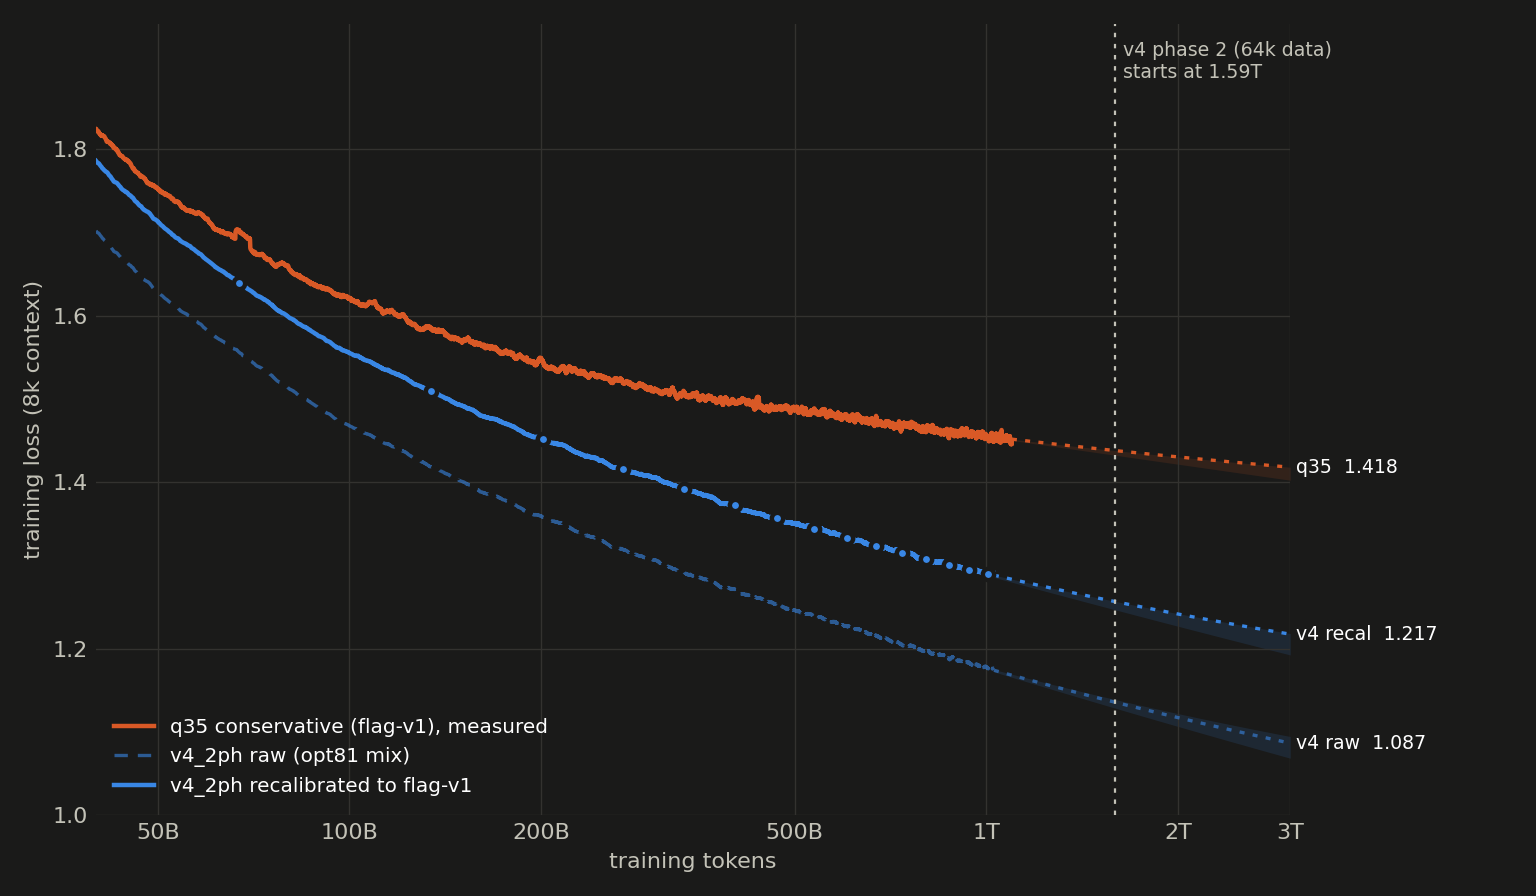
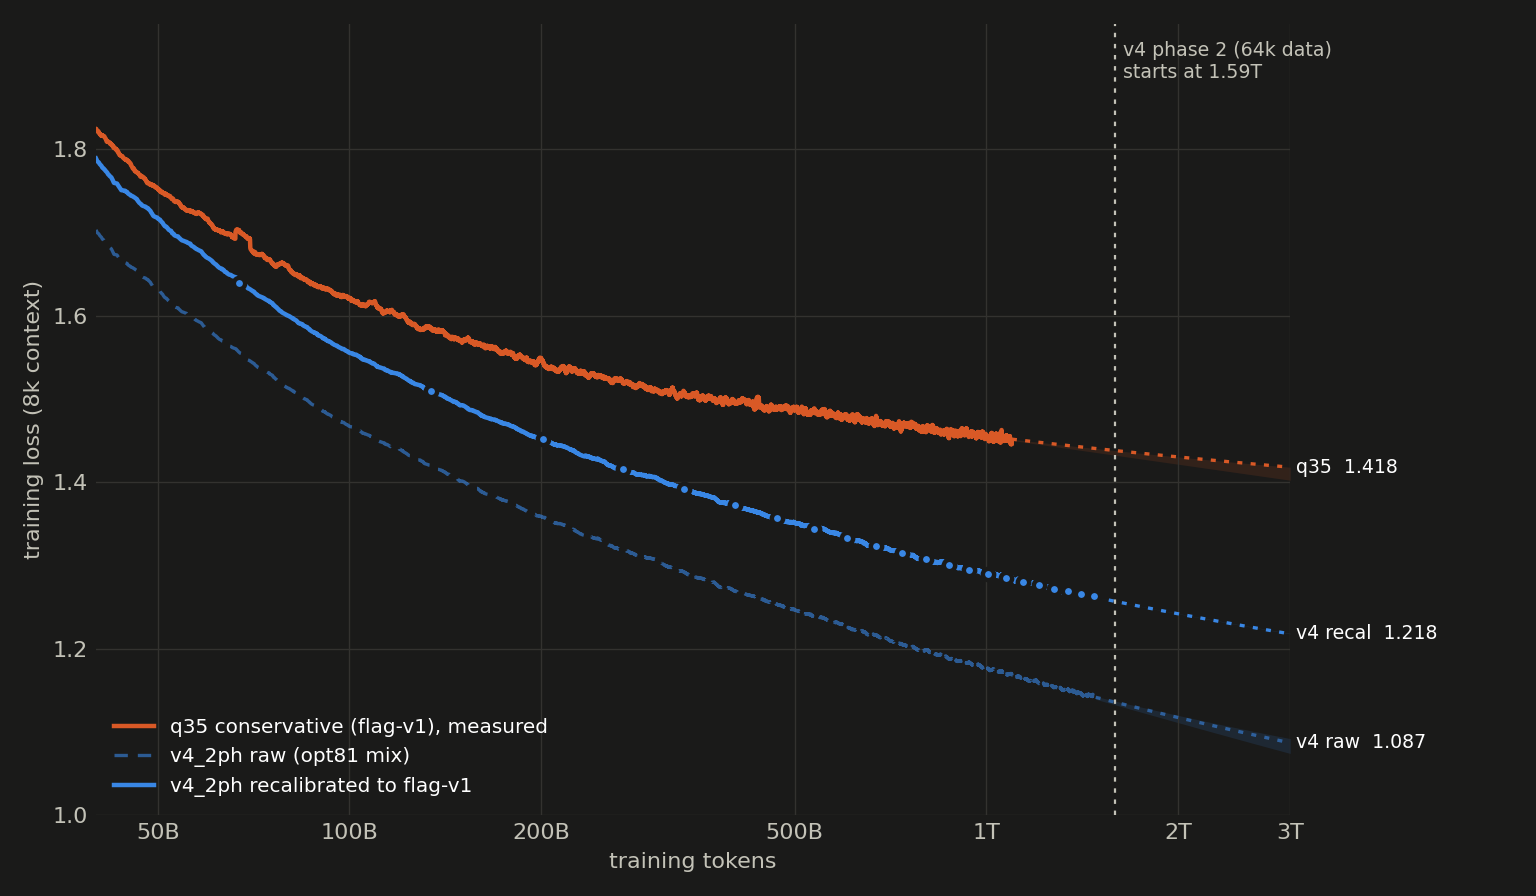
docs/loss_extrapolation: refit at 1.48T (step 22k, OOS fit 250-900B -> 900B-1.48T within 1-2 mnat); 11-07 forecasts held (raw 1.1425 / obs 1.1432, recal 1.262 / 1.263); recal 1.263 vs q35 1.441 (extrapolated) at 1.48T

diff --git a/docs/loss_extrapolation/README.md b/docs/loss_extrapolation/README.md
@@ -1,9 +1,9 @@
-# Loss extrapolation: ambitious v4_2ph vs conservative q35 (2026-11-07)
+# Loss extrapolation: ambitious v4_2ph vs conservative q35 (2026-11-09)
 
 ![v4_2ph raw / recalibrated vs q35, measured and extrapolated](loss_extrapolation_light.png)
 
-Data: W&B `openeurollm-project/flag_hybrid`, runs `ambitious_v4_2ph_main` (to step 15,266 = 1.02T tokens) and
-`conservative_q35_main_gqa` (ended at step 63,897 = 1.07T). Reproduce:
+Data: W&B `openeurollm-project/flag_hybrid`, runs `ambitious_v4_2ph_main` and
+`conservative_q35_main_gqa` (ended at step 63,897 = 1.07T); v4 data to step 22,000 = 1.48T. Reproduce:
 
     python scripts/korbi/production/recalibrated_loss.py --out <dir>
     python scripts/korbi/campaign/loss_extrapolation.py --recal-dir <dir> --out docs/loss_extrapolation
@@ -15,7 +15,8 @@ category shares, plus q35's own residual (training loss minus the same re-weight
 improves fastest on math and reasoning.
 
 **Fits** (`loss_extrapolation.py`): tail only (>= 250B tokens; full-range fits flatten too early, see the q35
-history), 200-step bins for v4, 800-step bins for q35. Out-of-sample check: fit 250-600B, predict 600B to the end.
+history), 200-step bins for v4, 800-step bins for q35. Out-of-sample check: fit 250-900B, predict 900B to the end
+(`--oos-cut 900`).
 Band = forms within 9 mnat out of sample; line = best of those by BIC.
 
 ## At equal tokens
@@ -26,21 +27,25 @@ Band = forms within 9 mnat out of sample; line = best of those by BIC.
 | 268B | 1.319 | +0.097 | 1.416 | 1.521 | -0.105 |
 | 537B | 1.237 | +0.107 | 1.344 | 1.484 | -0.140 |
 | 1.0T | 1.176 | +0.114 | 1.290 | 1.454 | -0.164 |
+| 1.07T | 1.169 | +0.116 | 1.284 | 1.452 | -0.168 |
+| 1.48T | 1.143 | +0.120 | 1.263 | 1.441 (q35 extrapolated) | -0.178 |
 
 ## Forecast (training loss)
 
 | series | out-of-sample error | 1.59T (end of v4's 8k phase) | 3T |
 |---|---|---|---|
-| v4 raw | +2 to +4 mnat (E+PL) | 1.136 [1.129-1.139] | 1.087 [1.069-1.095] |
-| v4 recalibrated | 0 to +1 mnat (E+PL a=0.3) | 1.257 [1.247-1.257] | 1.218 [1.193-1.218] |
-| q35 | +2 to +3 mnat (E+PL a=0.3) | 1.438 [1.432-1.438] | 1.418 [1.402-1.418] |
+| v4 raw | 0 to -1 mnat (E+PL) | 1.136 [1.133-1.137] | 1.087 [1.074-1.092] |
+| v4 recalibrated | -1 to -2 mnat (E+PL a=0.3) | 1.257 | 1.218 [1.218-1.219] |
+| q35 | 0 to +1 mnat (E+PL a=0.3) | 1.438 [1.432-1.438] | 1.418 [1.402-1.418] |
 
-v4's raw slope has stayed at ~0.105 per e-fold of tokens since ~400B (q35's tail: ~0.045). The 11-04 forecasts at
-1T held: train 1.18 predicted / 1.176 observed; every fixed set within 0.01.
+v4's raw slope has stayed at ~0.105 per e-fold of tokens since ~400B (q35's tail: ~0.045). Earlier forecasts held:
+11-04 (from 403B) at 1T: train 1.18 predicted / 1.176 observed, every fixed set within 0.01; 11-07 (from 1.01T) at
+1.48T: raw 1.1425 / 1.1432, recalibrated 1.262 / 1.263. Fixed set 'all' at 1.48T: 1.246 (11-07 range at 1.59T:
+1.226-1.238, so it ends near the top of that range).
 
 ## Caveats
 
 - v4 switches to its 64k phase (other data) at step 23,691 = 1.59T; beyond that the forecast is "if phase 1 continued".
 - The recalibration assumes q35's -0.051 residual carries over to v4 (the first ambitious run, 16k context, gave -0.071).
-- After the last evaluation (step 15,000) the per-step mix correction is held flat.
+- After the last evaluation the per-step mix correction is held flat.
 - No loss jumps at the v4 restarts (256 nodes at 5909, spectral cap + z-loss at 9118, head dim 256 at 9815).
